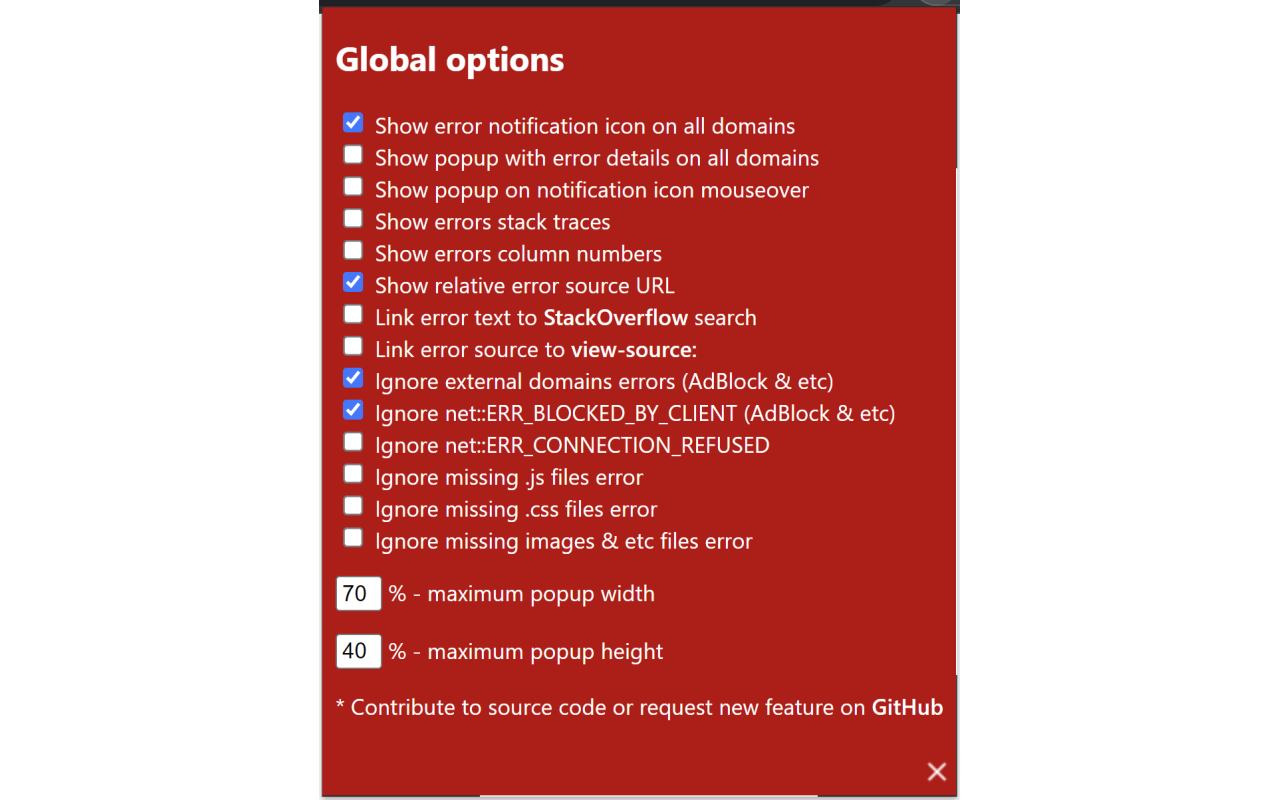
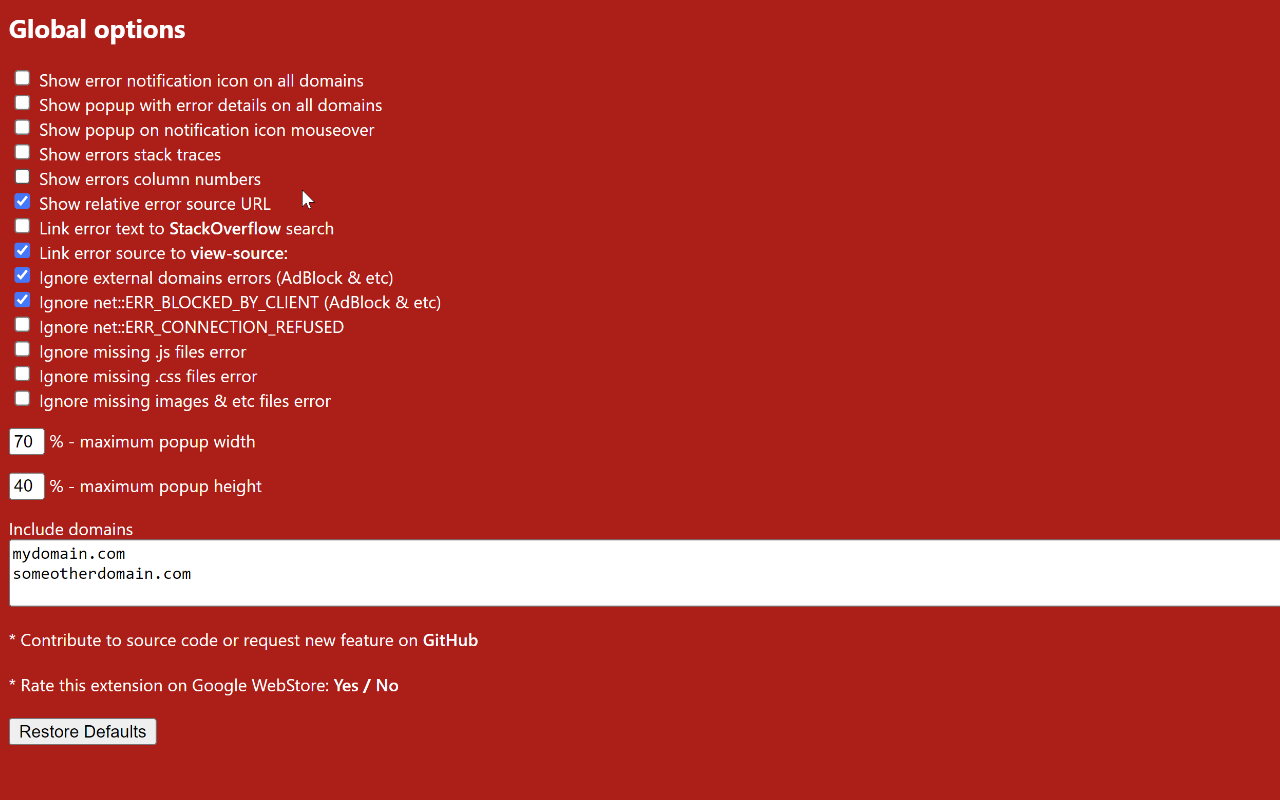
fixed issue with defaults not setting on install, tuned options reset

diff --git a/background.js b/background.js
@@ -1,4 +1,21 @@
 ;(() => {
+  const readLocalStorage = async (key) => {
+    return new Promise((resolve, reject) => {
+      chrome.storage.local.get([key], function (result) {
+        if (result[key] === undefined) {
+          resolve(null)
+        } else {
+          resolve(result[key])
+        }
+      })
+    })
+  }
+
+  chrome.runtime.onInstalled.addListener(function () {
+    // initDefaultOptions()
+    initDefaultOptions()
+  })
+
   chrome.tabs.onUpdated.addListener(function (tabId, changeInfo, tab) {
     if (changeInfo.status == 'loading') {
       chrome.scripting.executeScript({
@@ -29,7 +46,7 @@
       : (rootHostRegexp.exec(url) || subDomainRegexp.exec(url))[1]
   }
 
-  function initDefaultOptions() {
+  function setDefaults() {
     var optionsValues = {
       ignore404css: false,
       ignore404js: false,
@@ -37,6 +54,7 @@
       ignoreConnectionRefused: false,
       ignoreBlockedByClient: true,
       ignoreExternal: true,
+      includeDomains: "",
       linkStackOverflow: false,
       linkViewSource: false,
       popupMaxHeight: 40,
@@ -53,6 +71,16 @@
       value = typeof value == 'boolean' ? (value ? 1 : '') : value
       LS.setItem(option, value)
     }
+    LS.setItem('optionsInitialized', true)
+  }
+
+  function initDefaultOptions() {
+    const optionsInitialized = readLocalStorage('optionsInitialized')
+    Promise.resolve(optionsInitialized).then(value => {
+      if (value == null || value == false) {
+        setDefaults()
+      }
+    }) 
   }
 
   // Ignore net::ERR_BLOCKED_BY_CLIENT initiated by AdPlus & etc
